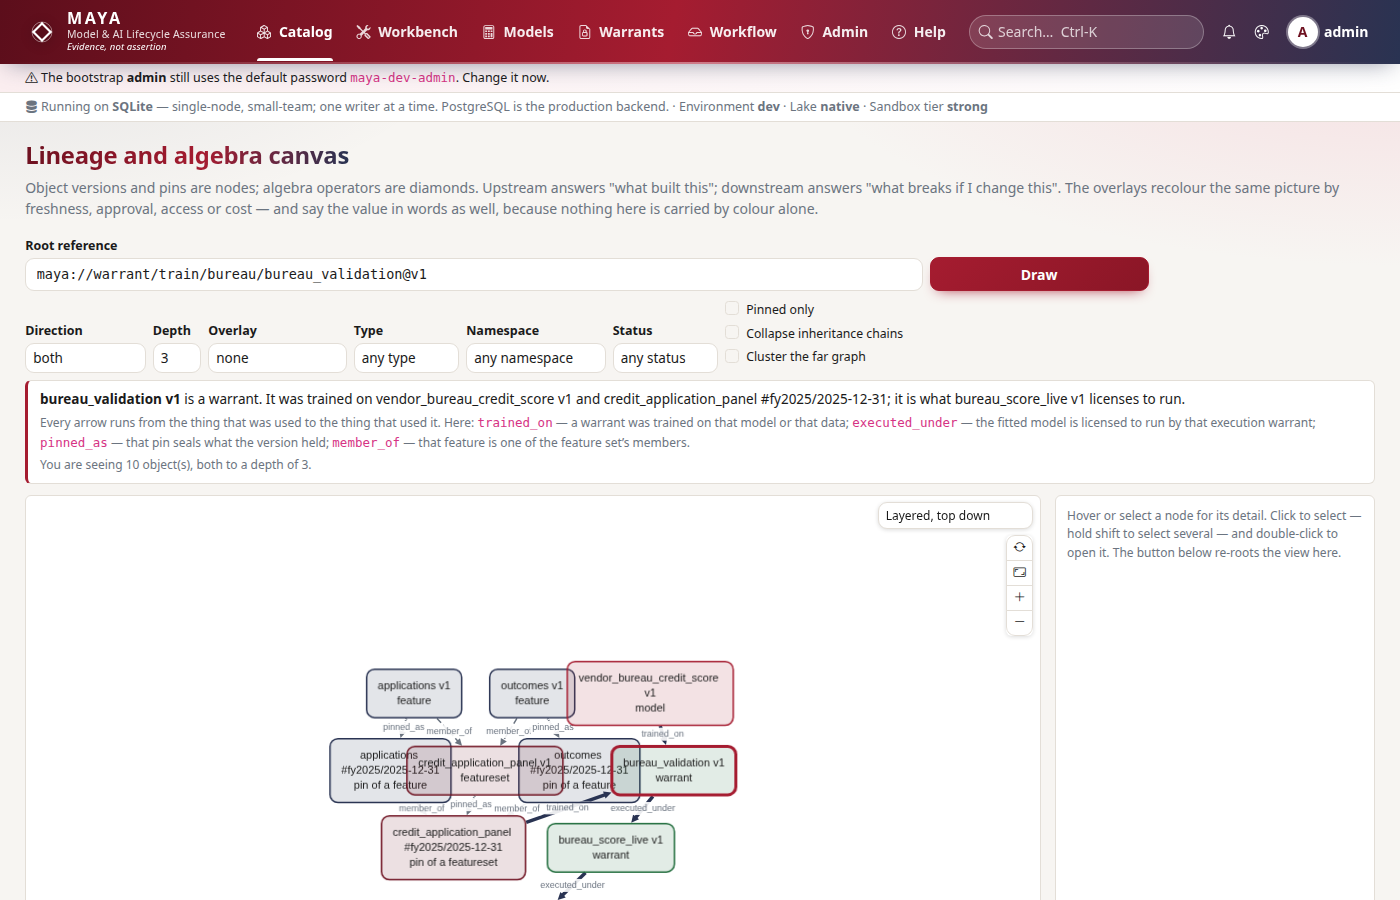
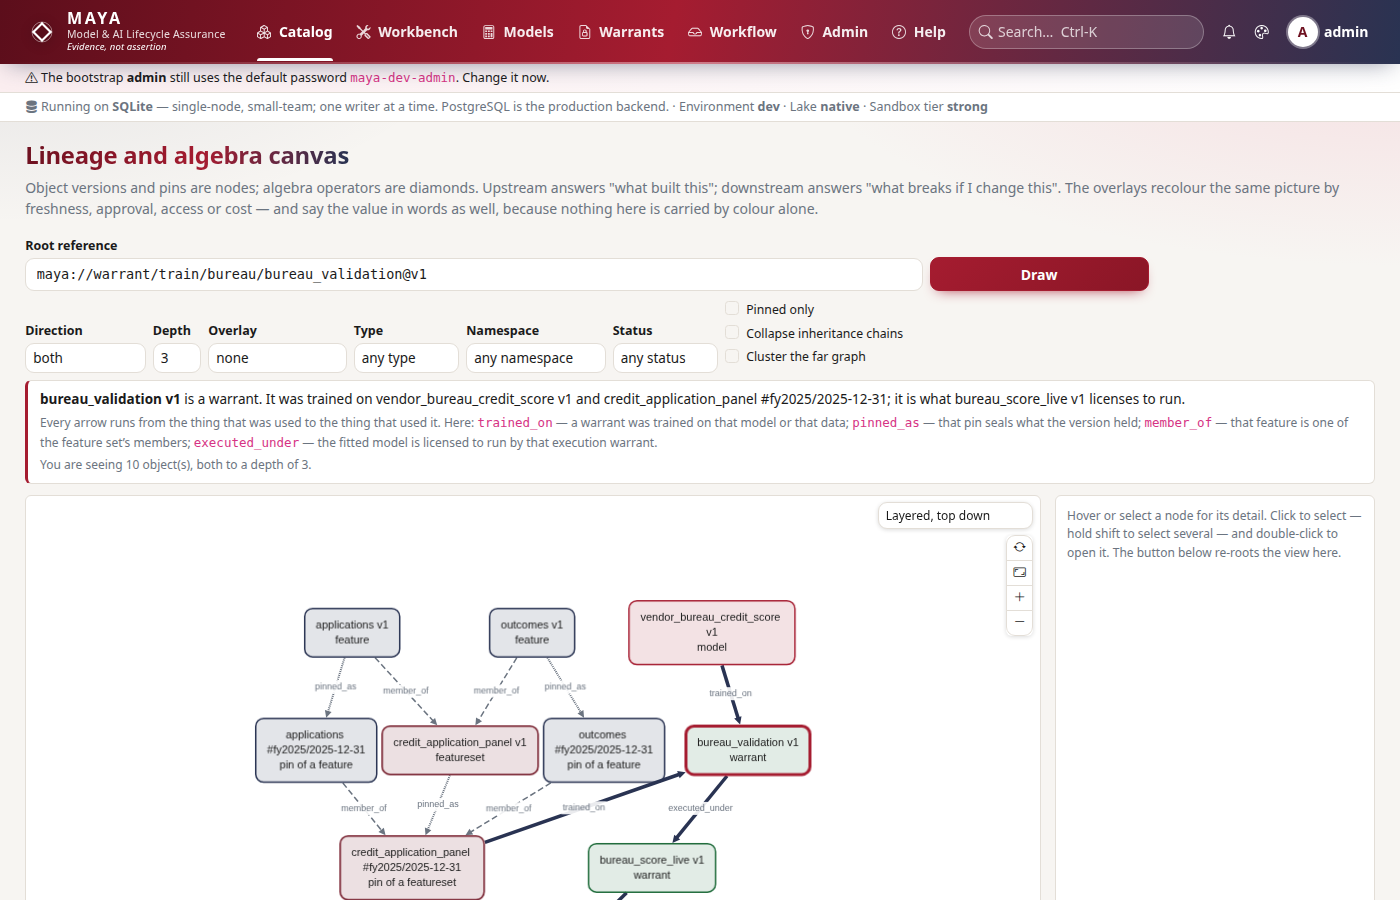
Lineage walked both directions by turning at every node, drawing siblings and cousins (a feature's fellow set members, a model's fellow warrant inputs) as lineage; upstream and downstream are now walked separately and joined. The top-down layout no longer overlaps labels

Changed region(s): [[0.1843, 0.6533, 0.5836, 1.0], [0.0307, 0.4667, 0.4914, 0.4978], [0.6143, 0.4667, 0.9521, 0.4978]]

diff --git a/maya/web/static/js/lineage.js b/maya/web/static/js/lineage.js
@@ -852,7 +852,7 @@
       label: 'Layered, top down',
       options: function () {
         return {
-          name: 'breadthfirst', directed: true, spacingFactor: 1.05, padding: 24,
+          name: 'breadthfirst', directed: true, spacingFactor: 1.6, padding: 24,
           nodeDimensionsIncludeLabels: true, avoidOverlap: true, grid: false
         };
       }

diff --git a/maya/persistence/repositories/special.py b/maya/persistence/repositories/special.py
@@ -194,24 +194,34 @@ class LineageRepository(Repository[operations.LineageEdge]):
         return sorted(found)[:limit]
 
     def walk(self, root: str, *, direction: str = "both", depth: int = 3) -> list[dict[str, Any]]:
-        """Breadth-first edges around ``root``. Upstream follows edges into a node."""
+        """Breadth-first edges around ``root``: upstream follows edges into a node (what it
+        was built from), downstream edges out of it (what uses it).
+
+        ``both`` is the two walks joined, each keeping its own direction all the way. Turning
+        at every hop instead -- following any edge from any node reached -- climbs down to a
+        feature set and back up to its other members, or down to a warrant and back up to
+        its other inputs: siblings and cousins, which are neither what built the root nor
+        what it affects, until every object in a cluster drew the same picture."""
+        if direction == "both":
+            edges = {e["id"]: e for e in self._walk(root, upstream=True, depth=depth)}
+            edges.update({e["id"]: e for e in self._walk(root, upstream=False, depth=depth)})
+            return list(edges.values())
+        return self._walk(root, upstream=direction == "upstream", depth=depth)
+
+    def _walk(self, root: str, *, upstream: bool, depth: int) -> list[dict[str, Any]]:
         seen: set[str] = {root}
         frontier = [root]
         edges: dict[str, dict[str, Any]] = {}
         for _ in range(max(depth, 0)):
             nxt: list[str] = []
             for ref in frontier:
-                found: list[dict[str, Any]] = []
-                if direction in ("upstream", "both"):
-                    found += self.list(dst_ref=ref)
-                if direction in ("downstream", "both"):
-                    found += self.list(src_ref=ref)
+                found = self.list(dst_ref=ref) if upstream else self.list(src_ref=ref)
                 for e in found:
                     edges[e["id"]] = e
-                    for other in (e["src_ref"], e["dst_ref"]):
-                        if other not in seen:
-                            seen.add(other)
-                            nxt.append(other)
+                    other = e["src_ref"] if upstream else e["dst_ref"]
+                    if other not in seen:
+                        seen.add(other)
+                        nxt.append(other)
             frontier = nxt
         return list(edges.values())
 

diff --git a/tests/test_review_fixes.py b/tests/test_review_fixes.py
@@ -207,3 +207,32 @@ def test_the_lineage_of_a_bare_object_is_drawn_through_its_versions(journey):  #
 
 
 from tests.test_warrants import journey  # noqa: E402, F401 - the fixture, reused
+
+
+def test_lineage_in_both_directions_never_draws_siblings_or_cousins():
+    """Two features in one feature set, whose pin trained a warrant that also took a model.
+    A feature's lineage is what built it and what it feeds; the other member feature and the
+    model are neither, and must not appear. The model's lineage is what uses it."""
+    from tests.conftest import build_platform
+
+    a, b = "maya://feature/ns/a@v1", "maya://feature/ns/b@v1"
+    fs, warrant = "maya://featureset/ns/panel@v1", "maya://warrant/train/ns/fit@v1"
+    model, live = "maya://model/ns/m@v1", "maya://warrant/exec/ns/run@v1"
+    p = build_platform()
+    try:
+        with p.uow("test") as uow:
+            repo = uow.repo("lineage_edges")
+            repo.link(a, fs, "member_of")
+            repo.link(b, fs, "member_of")
+            repo.link(fs, warrant, "trained_on")
+            repo.link(model, warrant, "trained_on")
+            repo.link(warrant, live, "executed_under")
+        nodes = lambda root: {n["id"] for n in p.ops.lineage(root, depth=3)["nodes"]}  # noqa: E731
+        assert nodes(a) == {a, fs, warrant, live}  # not b, not the model
+        assert nodes(model) == {model, warrant, live}  # not the features or the feature set
+        assert nodes(fs) == {a, b, fs, warrant, live}  # its members are what built it
+        assert nodes(a) != nodes(model)
+        up = {n["id"] for n in p.ops.lineage(warrant, direction="upstream", depth=3)["nodes"]}
+        assert up == {a, b, fs, model, warrant}
+    finally:
+        p.shutdown()

diff --git a/tests/test_browser_canvas.py b/tests/test_browser_canvas.py
@@ -349,7 +349,9 @@ def test_two_selected_features_open_the_designer_prefilled(site, browser):
     base, _ = site
     ctx, page = _page(browser)
     _login(page, base, "dana")
-    _canvas(page, base)
+    # px and px_alt are both upstream of the feature derived from them; from px alone,
+    # px_alt is a fellow operand -- a sibling, which lineage does not draw
+    _canvas(page, base, root=f"maya://feature/{NS}/px_both@v1")
     page.locator("#cy-nodes button", has_text=f"feature/{NS}/px@v1").first.click()
     page.locator("#cy-nodes button", has_text=f"feature/{NS}/px_alt@v1").first.click()
     open_link = page.locator("#cy-author-open")

diff --git a/docs/architecture/resolution.md b/docs/architecture/resolution.md
@@ -123,7 +123,7 @@ A rule's `non_causal` flag travels in the fill report of every attribute it fill
 
 A derived feature's source is an algebra expression over other features or pins. Each operator has two halves: `typecheck(op, options, metas)` runs at definition time with no data — index compatibility, type unification, unit and tag conflicts are errors there, never at run time — and `execute(op, options, frames, metas)` replays the operator over resolved operand frames. `FeatureData._derive` resolves each operand (a pin read exactly, a version resolved at the same `as_of_known`), type-checks, executes, and then runs the same grid-and-rules step over the result. Depth is capped (`catalog.MAX_DERIVATION_DEPTH`), so a cycle or a runaway chain is refused rather than recursed into.
 
-Lineage is recorded between versions and pins, never between bare objects: a training warrant links the feature set pin it was drawn on and the model version it trained, a pin links the version it sealed. `OpsService.lineage` walks those edges from a root. A bare object as the root (`maya://model/ns/name`) is drawn through its versions and pins that have lineage, each joined to it by a `version_of` or `pin_of` edge, so asking about an object shows what its versions were built from and feed.
+Lineage is recorded between versions and pins, never between bare objects: a training warrant links the feature set pin it was drawn on and the model version it trained, a pin links the version it sealed. `OpsService.lineage` walks those edges from a root: upstream follows edges into a node (what built it), downstream edges out of it (what uses it), and *both* is the two walks joined, each keeping its direction all the way — it never turns at a node, which would draw a feature's fellow members of a feature set, or a model's fellow inputs to a warrant, as if they were its lineage. A bare object as the root (`maya://model/ns/name`) is drawn through its versions and pins that have lineage, each joined to it by a `version_of` or `pin_of` edge, so asking about an object shows what its versions were built from and feed.
 
 ![The lineage canvas rooted at a training warrant: the features and their pins, the feature set pin it was drawn on, the model version it trained, and the execution warrant that licenses it](img/screens/lineage.png)
 

diff --git a/docs/CHANGELOG.md b/docs/CHANGELOG.md
@@ -2,6 +2,18 @@
 
 ## Unreleased
 
+**Lineage drew relatives that are not lineage**
+
+- In both directions the walk followed any edge from any node it reached, so it went down to a
+  feature set and back up to the set's other members, or down to a training warrant and back
+  up to its other inputs. A feature's view showed features it has nothing to do with, a
+  model's view showed the training data's member pins, and objects in one cluster drew nearly
+  the same picture. Upstream (what built this) and downstream (what uses it) are now walked
+  separately and joined, each keeping its direction. The data a model was trained on is an
+  input of its training warrant, and appears in that warrant's lineage.
+- The top-down layout spaces each rank for its labels (they overlapped when a rank held
+  several wide ones).
+
 **Hardening, and lineage of a whole object**
 
 - **Webhooks connect to the address they vetted.** A delivery resolves the host once, refuses
